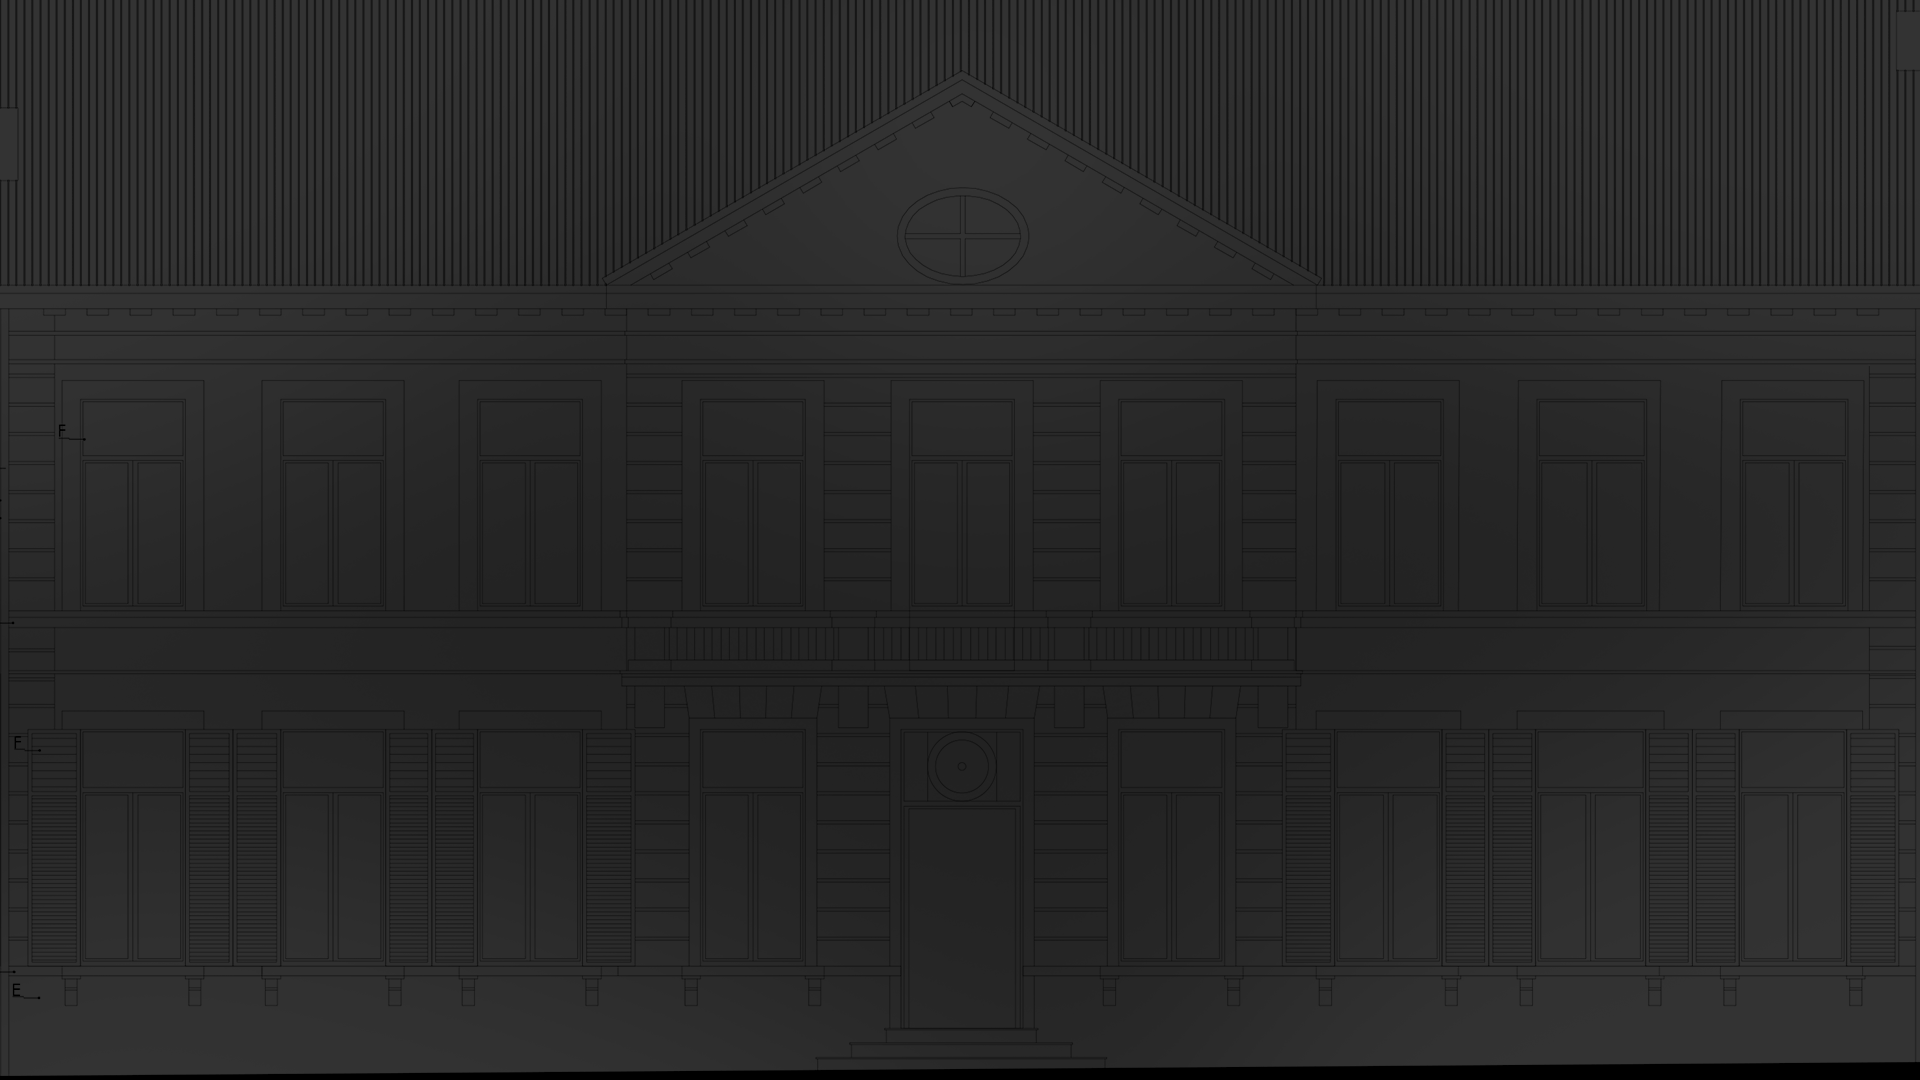
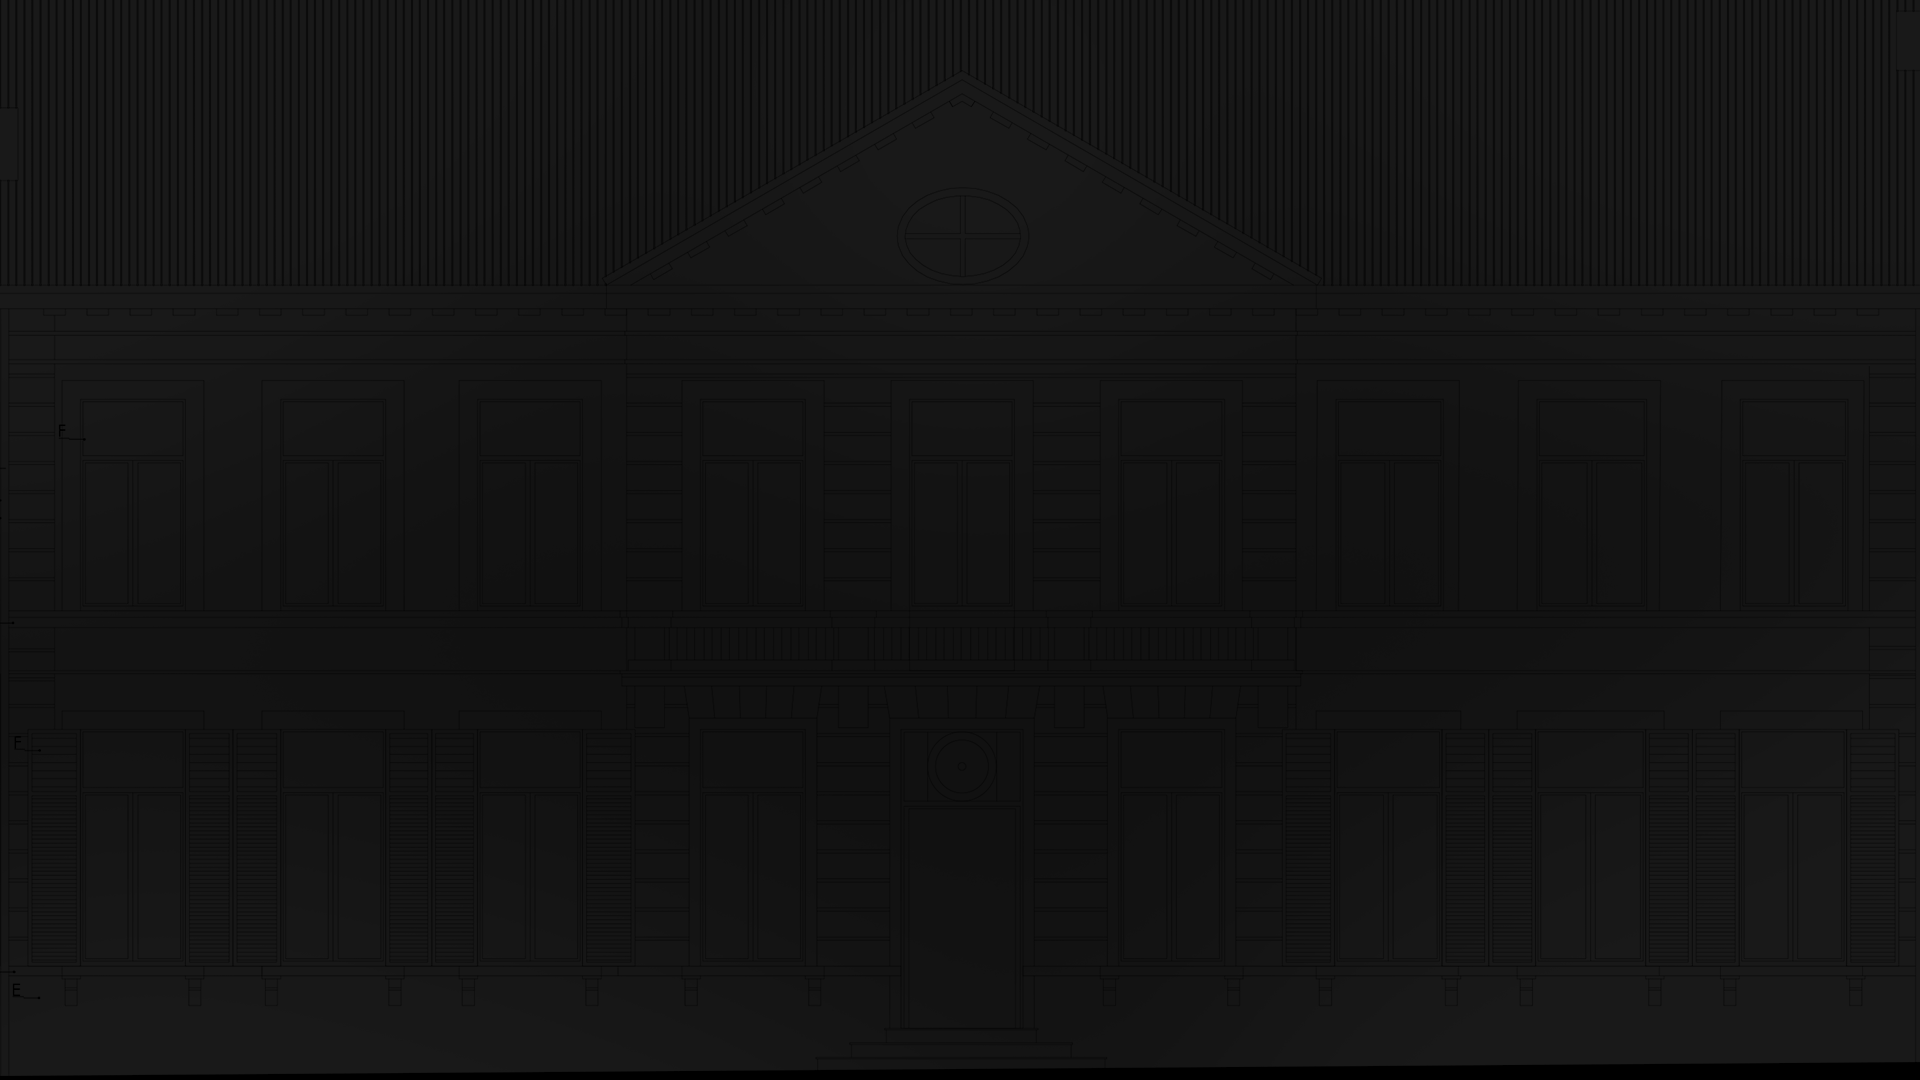
new template

diff --git a/src/js/game.js b/src/js/game.js
@@ -59,6 +59,8 @@ class Game extends Phaser.Scene {
         this.window5Frames = [];
         this.window6Frames = [];
 
+        //Background-image
+        const image = this.add.image(0, 0, 'background').setOrigin(0, 0).setPipeline('Light2D');
 
         //Window 1
 
@@ -219,7 +221,7 @@ class Game extends Phaser.Scene {
         this.input.mouse.disableContextMenu();
 
         //Lights
-        this.light = this.lights.addLight(0, 0, 300).setScrollFactor(0.0).setIntensity(4);
+        this.light = this.lights.addLight(0, 0, 300).setScrollFactor(0.0).setIntensity(8);
 
         this.lights.enable().setAmbientColor(0x555555);
 
@@ -232,12 +234,12 @@ class Game extends Phaser.Scene {
 
         // Makes this.light intensity stronger when pushing a button
         this.input.on('pointerdown', function () {
-            this.light.setIntensity(8);
+            this.light.setIntensity(10);
         }, this);
 
         // Makes this.light intensity weaker when pushing a button
         this.input.on('pointerup', function () {
-            this.light.setIntensity(4);
+            this.light.setIntensity(8);
         }, this);
 
         this.arrowKeys = this.input.keyboard.createCursorKeys();
